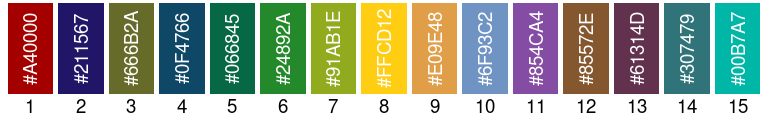
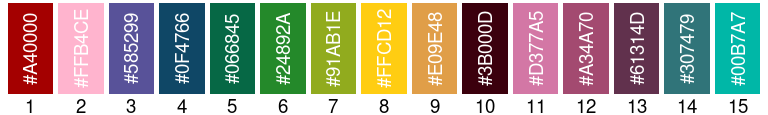
fix resize bugs

Changed region(s): [[0.5938, 0.0261, 0.8125, 0.8348], [0.0625, 0.0261, 0.2188, 0.8348]]

diff --git a/README.md b/README.md
@@ -70,7 +70,7 @@ lightness and/or increasing the difference threshold.
 new_clrs <- clrs |>
   spruce_up_colors(
     difference = 15,
-    adjust     = "hue"
+    adjust     = "lightness"
   )
 
 plot_colors(new_clrs)
